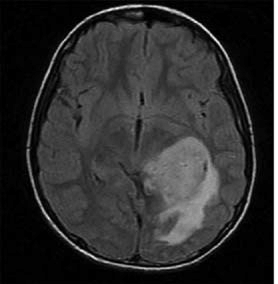
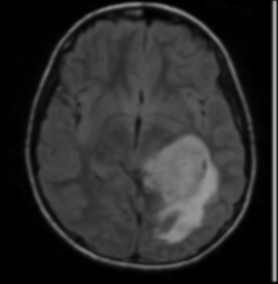
Multiple patterns are taken while calculating threshold with new images

diff --git a/main.py b/main.py
@@ -7,10 +7,35 @@ frequencies = {}
 gcd_values = set()
 thresholds = {}
 
-def gcd(a, b):
-    while b:
-        a, b = b, a % b
-    return a
+def divide(image_path, type):
+    image = cv2.imread(image_path)
+    gray_image = cv2.cvtColor(image, cv2.COLOR_BGR2GRAY)
+    height, width = gray_image.shape[:2]
+    half_height = height // 2
+    half_width = width // 2
+
+    part1 = np.array(gray_image[:half_height, :half_width])
+    part2 = np.array(gray_image[:half_height, half_width:])
+    part3 = np.array(gray_image[half_height:, :half_width])
+    part4 = np.array(gray_image[half_height:, half_width:])
+
+    thres1 = np.mean(list(get_gcds(part1.flatten())))
+    thres2 = np.mean(list(get_gcds(part2.flatten())))
+    thres3 = np.mean(list(get_gcds(part3.flatten())))
+    thres4 = np.mean(list(get_gcds(part4.flatten())))
+
+    im1_segment = segmentation(gray_image, type, thres1)
+    im2_segment = segmentation(gray_image, type, thres2)
+    im3_segment = segmentation(gray_image, type, thres3)
+    im4_segment = segmentation(gray_image, type, thres4)
+
+    cv2.imwrite(f'{type}_first_segmented_{image_path}', im1_segment)
+    cv2.imwrite(f'{type}_second_segmented_{image_path}', im2_segment)
+    cv2.imwrite(f'{type}_third_segmented_{image_path}', im3_segment)
+    cv2.imwrite(f'{type}_fourth_segmented_{image_path}', im4_segment)
+
+    cv2.waitKey(0)
+    cv2.destroyAllWindows()
 
 
 def get_gcds(intensities):
@@ -39,7 +64,6 @@ def select_numbers_with_least_variation(numbers, k):
     return selected_numbers
 
 
-
 def find_gcd_vectorized(arr):
     gcd_vectorized = np.frompyfunc(math.gcd, 2, 1)
     return gcd_vectorized.reduce(arr, axis=0)
@@ -62,7 +86,7 @@ def find_filter1():
     vals = np.array(matrix)
     x = np.sum(vals)
     filter_3x3 = vals / x
-    print("The filter is :", filter_3x3)
+    print("The filter is :\n", filter_3x3)
     return filter_3x3
 
 
@@ -79,13 +103,15 @@ def smooth1(image_path,filter):
     filtered_image = np.clip(filtered_image, 0, 255)
 
     smoothed_image = Image.fromarray(filtered_image.astype(np.uint8))
-    smoothed_image.save(f"smoothed_1_{image_path}")
+    # cv2.imshow("Smoothed Image",smoothed_image)
+    smoothed_image.save(f"{image_path}")
 
 
 def find_filter2():
     global gcd_values
     top_gcd2 = select_numbers_with_least_variation(list(gcd_values),9)
     filter_matrix2 = np.array(top_gcd2).reshape(3, 3) / np.sum(top_gcd2)
+    print("The second filter is :\n",filter_matrix2)
     return filter_matrix2
 
 
@@ -104,7 +130,8 @@ def smooth2(image_path,filter):
     smoothed_image2 = np.clip(smoothed_image, 0, 255).astype(np.uint8)
 
     smoothed_image_2_pil = Image.fromarray(smoothed_image2)
-    smoothed_image_2_pil.save(f'Smoothed_2_{image_path}')
+    # cv2.imshow("Smoothed Image",smoothed_image_2_pil)
+    smoothed_image_2_pil.save(f'{image_path}')
 
 
 def gcd_threshold_segmentation(image_path):
@@ -122,16 +149,18 @@ def gcd_threshold_segmentation(image_path):
 
 
     #ALL PAIRS
+    global frequencies
     for i in range(len(unique_values)):
         for j in range(i + 1, len(unique_values)):
             x, y = unique_values[i], unique_values[j]
             gcd = math.gcd(x, y)
-            if gcd in frequencies:
-                frequencies[gcd] += 1
-            else:
-                frequencies[gcd] = 1
-            if gcd != 1:
+            if(gcd!=1):
+                if gcd in frequencies :
+                    frequencies[gcd] += 1
+                else:
+                    frequencies[gcd] = 1
                 gcd_values.add(gcd)
+    frequencies = dict(sorted(frequencies.items(), key=lambda item: item[1], reverse=True))
 
 
     #ITERATE HORIZONTALLY
@@ -208,10 +237,11 @@ def gcd_threshold_segmentation(image_path):
 
     return thresholds
 
-def segmentation(image_path,type,T):
-    gimage = cv2.imread(image_path,0)
+
+def segmentation(gimage,type,T):
+
     m, n = gimage.shape
-    img_thresh = np.zeros((m, n), dtype=int)
+    img_thresh = np.zeros((m, n), dtype=np.uint8)
 
     for i in range(m):
         for j in range(n):
@@ -219,23 +249,24 @@ def segmentation(image_path,type,T):
                 img_thresh[i, j] = 0;
             else:
                 img_thresh[i, j] = 255;
+    if type != "parted":
+        cv2.imwrite(f'{type}_segmented_{image_path}',img_thresh)
+    # segmented_image = cv2.cvtColor(img_thresh, cv2.COLOR_GRAY2BGR)
 
-    cv2.imwrite(f'{type}_segmented_{image_path}',img_thresh)
+    return img_thresh.astype(np.uint8)
 
 if __name__ == "__main__":
-    image_list = ["mark1.jpg"]
+    image_list = ["mark2.jpg","mark3.jpeg","mark4.jpeg"]
+    # image_list = ["BT_orig.png"]
 
     for x in image_list:
         image_path = f"images/{x}"
-
+        gimage = cv2.imread(image_path, 0)
         threshold_values = gcd_threshold_segmentation(image_path)
+        filter1 = find_filter1()
+        filter2 = find_filter2()
+        smooth1(image_path,filter1)
+        smooth2(image_path,filter2)
         for type,threshold_value in threshold_values.items():
-            segmentation(image_path,type,int(threshold_value))
-
-
-        #Divide image into 4 parts find gcds in each of the 4 areas and segment each part respectively and then add all images compare results
-
-        # filter1 = find_filter1()
-        # filter2 = find_filter2()
-        # smooth1(image_path,filter1)
-        # smooth2(image_path,filter2)
+            segmentation(gimage,type,int(threshold_value))
+        divide(image_path,"parted")
